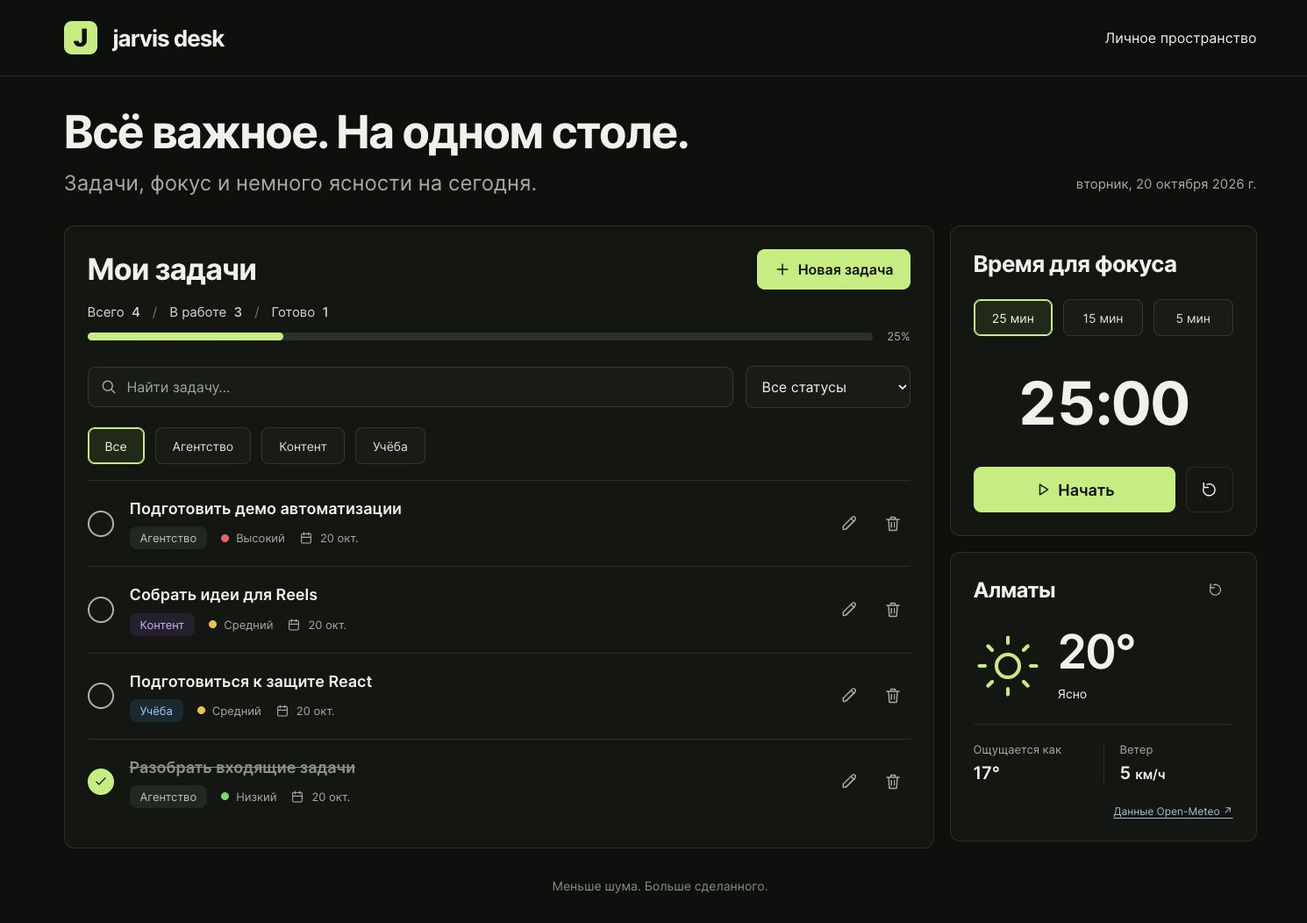
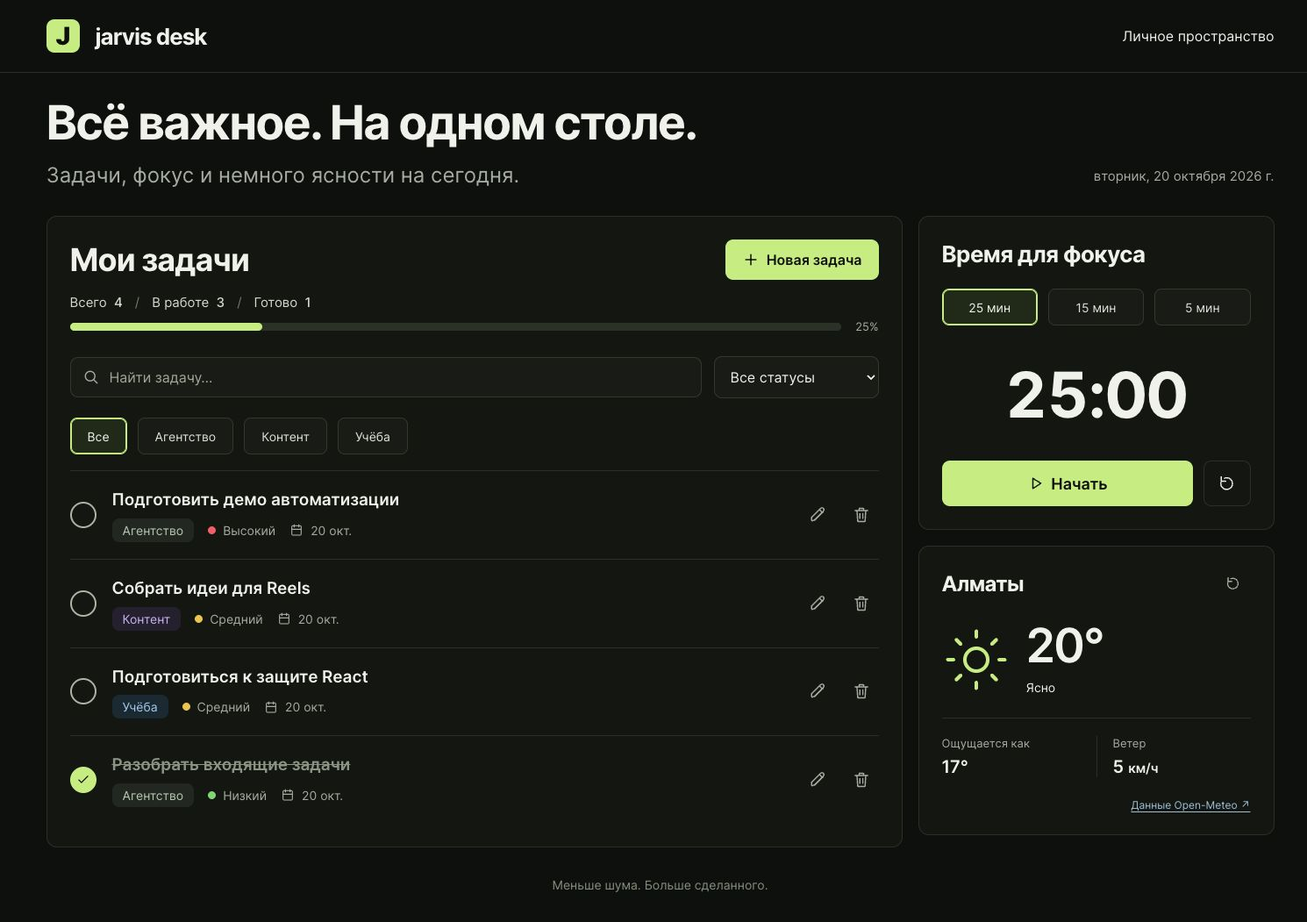
docs: add course mapping Effects assignment defense and deployment verification

diff --git a/README.md b/README.md
@@ -1,0 +1,137 @@
+# Jarvis Desk
+
+Личное пространство для задач агентства, контента и учёбы: список дел, прогресс, таймер фокуса и текущая погода в Алматы.
+
+Индивидуальный учебный проект на React для мидтерма и задания **Task 4. Effects**.
+
+**Приложение:** [tamerlanta.github.io/jarvis-desk](https://tamerlanta.github.io/jarvis-desk/)
+
+**Репозиторий:** [TamerlanTA/jarvis-desk](https://github.com/TamerlanTA/jarvis-desk)
+
+![Jarvis Desk — основной экран](docs/desktop.png)
+
+## Возможности
+
+- Создание, редактирование, удаление с подтверждением и отметка выполнения задач.
+- Направления «Агентство», «Контент», «Учёба»; приоритет и срок каждой задачи.
+- Проверка названия (3–120 символов), реальной календарной даты, направления и приоритета.
+- Поиск с задержкой 300 мс, фильтры по направлению и статусу; фильтры работают вместе.
+- Общая статистика и процент выполненных задач, вычисляемые из списка.
+- Сохранение задач между перезагрузками через `localStorage`.
+- Четыре демонстрационные задачи при первом запуске. После удаления всех задач пустой список сохраняется.
+- Таймер на 5, 15 или 25 минут: старт, пауза, продолжение, сброс и сообщение о завершении.
+- Погода в Алматы: температура, ощущаемая температура, описание и ветер; загрузка, ошибка, повтор запроса и ручное обновление.
+- Адаптивная раскладка, видимый фокус клавиатуры, подписи полей и кнопок; диалоги закрываются через Escape.
+
+## Стек и запуск
+
+React, Vite, JavaScript, plain CSS. Для проверок — ESLint, Vitest и React Testing Library. Для публикации — `gh-pages`.
+
+Проверено с Node.js **26.0.0** и npm **11.12.1**.
+
+```bash
+git clone https://github.com/TamerlanTA/jarvis-desk.git
+cd jarvis-desk
+npm ci
+npm run dev
+```
+
+Открыть URL из терминала, обычно `http://localhost:5173/jarvis-desk/`.
+
+```bash
+npm test          # 12 проверок Effects и валидации
+npm run lint     # JavaScript и правила hooks
+npm run build    # production-файлы в dist/
+npm run preview  # локальный просмотр production-сборки
+```
+
+## Тема курса → где в коде
+
+| Тема | Реализация |
+| --- | --- |
+| Компоненты | `src/components/`: 10 компонентов, каждый в своём файле; `App.jsx` собирает экран |
+| Props | `TaskList` получает задачи и обработчики от `App`; `TaskItem` получает одну задачу; `TaskSummary` получает весь список |
+| Lifting state up | `src/App.jsx`: владеет задачами через `useStoredTasks`, передаёт данные в список и сводку; обработчики изменения возвращаются через props |
+| Несколько `useState` | `App.jsx`: поиск, направление, статус, открытая форма и выбранные задачи; `TaskForm.jsx`: поля и ошибки; таймер и погода имеют собственный state |
+| События | `TaskItem.jsx`: `onChange`, `onClick`; `TaskForm.jsx`: `onSubmit`, `preventDefault`; `TaskFilters.jsx`: изменение поиска и фильтров |
+| Controlled forms | `TaskForm.jsx`: `value={values...}` и `onChange={changeField}`; `TaskFilters.jsx`: управляемые input/select |
+| Валидация | `src/utils/tasks.js`: `validateTask`, `isValidDate`; `TaskForm.jsx`: ошибки у полей, запрет сохранения невалидных данных |
+| Списки и `key` | `TaskList.jsx`: `tasks.map` с `key={task.id}`; `TaskFilters.jsx`, `TaskForm.jsx`, `FocusTimer.jsx`: ключи для вариантов |
+| Условный рендеринг | `TaskList.jsx`: пустой список / отсутствие результатов; `WeatherWidget.jsx`: loading / error / data; `App.jsx`: форма и подтверждение удаления |
+| Effect №1: чтение `localStorage` | `src/hooks/useStoredTasks.js`, первый `useEffect`, зависимости `[]`: загрузка, проверка структуры и версии данных |
+| Effect №2: запись `localStorage` | `src/hooks/useStoredTasks.js`, второй `useEffect`, `[tasks, canSave]`: сохранение только после успешного чтения |
+| Effect №3: `fetch` API | `src/components/WeatherWidget.jsx`, `[requestNumber]`: `fetch`, `response.ok`, loading/error, проверка ответа, таймаут, cleanup через `AbortController` |
+| Effect №4: таймер | `src/components/FocusTimer.jsx`, `[endsAt]`: интервал обновления остатка времени, cleanup через `clearInterval` |
+| Effect №5: debounce | `src/hooks/useDebouncedValue.js`, `[value, delay]`: отложенное обновление поискового запроса, cleanup через `clearTimeout` |
+| Адаптивные стили | `src/styles.css`: CSS Grid, Flexbox, media queries, `:focus-visible`, `prefers-reduced-motion` |
+
+Подробный разбор отдельного задания: [Task 4. Effects](docs/EFFECTS.md).
+
+## Архитектура и данные
+
+```text
+src/
+  App.jsx                       # общий state, обработчики, фильтрация, композиция
+  main.jsx                      # createRoot и StrictMode
+  components/
+    Header.jsx
+    TaskSummary.jsx
+    TaskFilters.jsx
+    TaskList.jsx
+    TaskItem.jsx
+    TaskForm.jsx
+    DeleteDialog.jsx
+    FocusTimer.jsx
+    WeatherWidget.jsx
+    Icon.jsx
+  hooks/
+    useStoredTasks.js
+    useDebouncedValue.js
+  utils/
+    tasks.js                    # варианты полей, даты, валидация, демо-данные
+    weather.js                  # URL API, WMO-коды, проверка ответа
+  styles.css
+tests/
+  effects.test.jsx
+```
+
+Поток данных: `App → TaskList → TaskItem`; событие из `TaskItem → обработчик в App → новый tasks → обновление списка и TaskSummary`. Локальный черновик формы попадает в общий список только после успешной валидации.
+
+Сводка и отфильтрованный список вычисляются при рендере. Для них не нужен отдельный state или `useEffect`: это производные данные.
+
+`localStorage` хранит `{ version: 1, tasks: [...] }` под ключом `jarvis-desk.tasks.v1`. У задачи есть стабильный `id`, `title`, `category`, `priority`, `dueDate` и `completed`. Новые ID создаются через `crypto.randomUUID()`.
+
+Данные относятся к этому браузеру и origin: localhost и GitHub Pages имеют разные хранилища. Фильтры и таймер сбрасываются при обновлении страницы. При повреждении хранилища приложение показывает предупреждение и не перезаписывает исходные данные; при отказе записи сообщает об этом пользователю.
+
+## Task 4. Effects: как проверить
+
+1. Добавить задачу, обновить страницу — задача останется. Выполнить её — изменятся сводка и сохранённые данные.
+2. Нажать обновление погоды — появится loading, затем актуальный ответ Open-Meteo. Для проверки ошибки включить Offline в DevTools → Network и повторить обновление; вернуть сеть и нажать «Повторить».
+3. Выбрать 5 минут, запустить и поставить таймер на паузу — время перестанет уменьшаться; продолжить и сбросить.
+4. Ввести запрос поиска — список обновится через 300 мс после последнего ввода.
+
+Автотесты дополнительно проверяют завершение сессии без реального ожидания, очистку интервала после unmount, отмену debounce, чтение перед записью в StrictMode, сохранение пустого списка, повреждённое хранилище, отказ записи, HTTP-ошибку с восстановлением, некорректный ответ API и таймаут запроса.
+
+## GitHub Pages
+
+В `vite.config.js` задан `base: '/jarvis-desk/'`. Приложение одноэкранное, роутер не требуется.
+
+```bash
+npm run deploy
+```
+
+`predeploy` автоматически выполняет `npm run build`, затем `gh-pages -d dist --nojekyll` публикует `dist/` в ветку `gh-pages`. GitHub → Settings → Pages: **Deploy from a branch → gh-pages → /(root)**. Нужны права записи в репозиторий и настроенная GitHub-аутентификация.
+
+Изменения исходников коммитятся и отправляются в `main` отдельно. Один `git push` не заменяет `npm run deploy`. При переименовании репозитория нужно обновить `base` и ссылки.
+
+## API и источники
+
+Погода: [Open-Meteo Weather Forecast API](https://open-meteo.com/en/docs), координаты Алматы, часовой пояс `Asia/Almaty`, ветер в км/ч. API доступен для некоммерческого использования без ключа; ссылка на источник находится в виджете. Для погоды требуется сеть. Задачи и таймер после загрузки страницы работают независимо от ответа API.
+
+Справка: [React — useEffect](https://react.dev/reference/react/useEffect), [Vite — GitHub Pages](https://vite.dev/guide/static-deploy.html#github-pages).
+
+## Защита и проверка
+
+- [План и текст защиты на 3–4 минуты](docs/DEFENSE.md).
+- [Проверки и сравнение интерфейса с макетом](docs/QA.md).
+- [Мобильный скриншот](docs/mobile.png).

diff --git a/docs/QA.md b/docs/QA.md
@@ -1,0 +1,61 @@
+# Проверка Jarvis Desk — 20 октября 2026
+
+## Публикация
+
+- Публичный репозиторий: [TamerlanTA/jarvis-desk](https://github.com/TamerlanTA/jarvis-desk), основная ветка `main`.
+- Работающее приложение: [GitHub Pages](https://tamerlanta.github.io/jarvis-desk/).
+- Pages собирается из `gh-pages`, корень `/`, HTTPS включён; проверен статус GitHub Pages `built` без ошибки.
+- Публикация выполнена через `npm run deploy`; `predeploy` запускает production build.
+
+## Автоматические проверки
+
+- `npm run build` — успешно после каждого этапа реализации.
+- `npm run lint` — без ошибок и предупреждений.
+- `npm test` — 12 тестов, все проходят.
+- `npm audit` — 0 известных уязвимостей на момент установки зафиксированных зависимостей.
+- Проверены данные хранилища до первого сохранения в StrictMode; пустой список; повреждённый JSON; отказ записи; пауза, продолжение и завершение таймера; cleanup интервала и debounce; загрузка погоды, HTTP-ошибка, повтор, некорректные данные, таймаут; валидация даты и названия.
+
+## Браузерная проверка
+
+Использован встроенный браузер Codex (IAB), без Playwright-fallback. Проверены localhost и опубликованный URL. В production не обнаружены сообщения `warn` или `error` в консоли.
+
+На публичном сайте выполнены:
+
+1. Отправка пустого названия → сообщение валидации; корректное создание задачи.
+2. Обновление страницы → добавленная задача сохранилась.
+3. Редактирование названия и даты; нативный ввод даты с клавиатуры → новая дата отображается в списке.
+4. Очистка даты с клавиатуры → ошибка, форма не сохраняется; отмена оставляет старую задачу.
+5. Отметка выполнения → обновление счётчиков и процента.
+6. Совместные направление + статус + поиск → нужная задача; неизвестный запрос → пустой результат; сброс возвращает весь список.
+7. Отмена удаления сохраняет задачу; подтверждение удаляет её. Временная тестовая задача удалена после проверки.
+8. Таймер: 5 минут → старт → наблюдаемый отсчёт → пауза → сброс; переключение на 15 и 25 минут.
+9. Обновление погоды → loading → реальный ответ API, единицы км/ч и источник отображаются.
+10. Мобильная форма открывается, помещается в экран и закрывается; Escape проверен на desktop.
+
+HTTP-ошибки, таймауты, повреждение хранилища и полное завершение таймера проверены детерминированными автотестами; production API во время проверки отвечал успешно.
+
+## Адаптивность
+
+Проверены ширины 320, 390, 768, 1280 и 1505 CSS px. Горизонтального переполнения нет. На небольших экранах поиск и select располагаются друг под другом, метаданные переносятся, панели таймера и погоды переходят под задачи. Мобильный диалог не имеет внутреннего горизонтального переполнения.
+
+- [Desktop](desktop.png): скриншот production-версии, получен через `tab.screenshot({ fullPage: true })` в IAB при viewport 1505 × 1045. Полоса прокрутки может уменьшать ширину самого PNG на 15 px.
+- [Mobile](mobile.png): production-версия при viewport 390 × 844.
+
+## Сверка с визуальным макетом
+
+[Исходный концепт](design-concept.png), 1505 × 1045, и актуальные desktop/mobile PNG открыты через `view_image` в одном проходе проверки. Реализация сверена с выбранным визуальным направлением: тёмный рабочий стол, зелёный акцент, список слева и две утилиты справа. Существенных незакрытых расхождений по структуре и читаемости нет.
+
+| Область | Сравнение и исправление |
+| --- | --- |
+| Компоновка | Сохранены header → вводная часть → задачи слева / фокус и погода справа → footer. Уточнены максимальная ширина 1400px и пропорция колонок около 70:30. |
+| Типографика | Системный sans-serif, крупный заголовок, явная иерархия разделов и табличные цифры таймера. После сравнения уточнены размеры заголовка, названий задач, метаданных и таймера. Метрики системного шрифта могут отличаться от растрового концепта. |
+| Палитра | Зафиксированы charcoal canvas, чуть более светлые панели, приглушённые границы и lime CTA/выбранные фильтры. Растровая текстура макета заменена ровным CSS-фоном. |
+| Отступы и панели | Тонкие разделители строк, 12px углы панелей, 18px межколоночный зазор; уточнены вертикальные отступы вводной части. |
+| Кнопки и иконки | Сохранены назначение, расположение и outline-стиль иконок; используются единообразные SVG, hover и keyboard-focus. У погоды добавлена функционально необходимая кнопка обновления. |
+| Текст первого экрана | Название, заголовок, подзаголовок, CTA, фильтры, названия демо-задач и footer соответствуют спецификации. Нет новых рекламных секций или декоративных подписей. |
+| Реальные данные | Преднамеренные отличия: текущая дата, свежая погода, даты демо-задач, корректные 25% ширины прогресса; ветер в км/ч без неиспользуемого направления. |
+| Мобильный вид | Та же иерархия и палитра; колонки складываются, элементы остаются читаемыми и доступными. |
+
+## Границы реализации
+
+Задачи сохраняются локально для конкретного браузера и origin. Таймер и фильтры после обновления страницы сбрасываются. Погода зависит от сети и доступности Open-Meteo; ошибки имеют отдельный UI с повтором запроса. Backend, авторизация и роутер для данного объёма не нужны.

diff --git a/docs/DEFENSE.md b/docs/DEFENSE.md
@@ -1,0 +1,55 @@
+# Защита Jarvis Desk — 3–4 минуты
+
+Перед началом открыть [приложение](https://tamerlanta.github.io/jarvis-desk/) и исходники `App.jsx`, `useStoredTasks.js`, `WeatherWidget.jsx`, `FocusTimer.jsx`. Проверить сеть для демонстрации погоды.
+
+## 0:00–0:25 — Что это
+
+«Я сделал Jarvis Desk — личную панель, которая помогает держать в одном месте задачи по агентству, контенту и учёбе. Здесь есть список дел, прогресс выполнения, таймер фокуса и погода в Алматы. Это статическое React-приложение на Vite и JavaScript, опубликованное на GitHub Pages».
+
+## 0:25–1:10 — Демо №1: задача и сохранение
+
+Нажать «Новая задача». Отправить пустую форму: показать сообщение валидации. Ввести «Подготовить презентацию», выбрать «Учёба» и сохранить. Отметить выполнение: процент и счётчики изменятся. Обновить страницу: задача останется.
+
+«Форма управляемая: значения находятся в state и меняются через onChange. onSubmit отменяет стандартную отправку, проверяет данные и передаёт их родителю через onSave. Задачи хранятся на уровне App через пользовательский hook. Список и сводка получают одни и те же данные через props — это lifting state up».
+
+## 1:10–1:40 — Демо №2: поиск и фильтры
+
+Выбрать «Учёба» и «Готово». Ввести часть названия в поиск. Затем несуществующее слово, показать пустой результат и нажать «Сбросить фильтры».
+
+«У поиска, направления и статуса независимые useState. Фильтры применяются вместе. Список строится через map, ключ — постоянный ID задачи. Поиск использует debounce: результат меняется после 300 мс без ввода. Предыдущий timeout очищается в cleanup».
+
+## 1:40–2:10 — Демо №3: фокус и погода
+
+Выбрать 5 минут, нажать «Начать», показать уменьшение времени, поставить на паузу и сбросить. Нажать обновление погоды: кратко показать загрузку и данные.
+
+«Таймер хранит время окончания и вычисляет остаток относительно системных часов. Это помогает при замедлении фоновой вкладки. Когда таймер останавливается или компонент удаляется, cleanup вызывает clearInterval. Погода загружается из публичного Open-Meteo API; у неё есть состояния загрузки, результата и ошибки с повтором».
+
+## 2:10–3:10 — Где state и effects в коде
+
+Открыть соответствующие файлы и показать:
+
+1. **`App.jsx`:** state фильтров и диалогов; задачи получены из `useStoredTasks`; обработчики передаются вниз через props. Сводка и видимый список вычисляются при рендере.
+2. **`useStoredTasks.js`:** первый effect с `[]` читает данные. Второй с `[tasks, canSave]` сохраняет их. Флаг блокирует запись до окончания чтения, чтобы не затереть старые задачи.
+3. **`WeatherWidget.jsx`:** effect зависит от `requestNumber`. Проверяет HTTP-ответ и JSON, обрабатывает ошибки. Cleanup отменяет fetch через AbortController и очищает таймаут.
+4. **`FocusTimer.jsx`:** effect зависит от `endsAt`, создаёт интервал и возвращает функцию очистки.
+
+«Эффекты нужны там, где React синхронизируется с браузерным хранилищем, сетью или временем. Валидация и изменение задач относятся к событиям, поэтому выполняются в обработчиках».
+
+## 3:10–3:35 — Проверка и публикация
+
+«В проекте 10 отдельных компонентов, JavaScript и обычный адаптивный CSS. Проходят npm run build, npm run lint и 12 тестов. Тесты проверяют сохранность данных, очистку таймеров и восстановление после ошибки API. В Vite задан base для имени репозитория; npm run deploy сначала собирает приложение, затем публикует dist в ветку gh-pages».
+
+## Короткие ответы на вероятные вопросы
+
+| Вопрос | Ответ |
+| --- | --- |
+| Почему state задач поднят? | Он нужен одновременно списку, форме через обработчики и сводке. Общий владелец исключает разные копии одного списка. |
+| Почему нельзя менять массив через push? | Создаём новый массив через spread, map или filter, чтобы React получил новое значение и сохранился предсказуемый поток данных. |
+| Зачем key? | Помогает React сопоставлять элементы при добавлении и удалении. ID стабилен, индекс может измениться. |
+| Зачем cleanup? | Чтобы старые интервалы, таймауты и запросы не продолжали работать после изменения зависимостей или удаления компонента. |
+| Что означает []? | В обычном жизненном цикле effect запускается после первого рендера. В StrictMode при разработке есть дополнительная проверка setup/cleanup. |
+| Почему эффект погоды зависит от requestNumber? | Нажатие обновления меняет счётчик и повторно запускает синхронизацию с API. |
+| Что будет без сети? | Виджет погоды покажет ошибку и кнопку повторной загрузки. Уже открытые задачи и таймер продолжают работать. |
+| Почему таймер сбросился после перезагрузки? | Его state хранится в памяти компонента. В localStorage сохраняются только задачи. |
+| Почему нет роутера? | У приложения один экран. Для него маршрутизация не нужна. |
+| Есть ли AI? | Здесь реализована персональная панель задач в стиле Джарвиса. Для текущих функций достаточно React и открытого API погоды. |

diff --git a/docs/EFFECTS.md b/docs/EFFECTS.md
@@ -1,0 +1,57 @@
+# Task 4. Effects — Jarvis Desk
+
+В проекте пять вызовов `useEffect`. Каждый синхронизирует React с внешним состоянием или временем. Логика выполняется в работающем приложении.
+
+| № | Файл | Зависимости | Внешняя система | Cleanup |
+| --- | --- | --- | --- | --- |
+| 1 | `src/hooks/useStoredTasks.js` — первый effect | `[]` | чтение `localStorage` при старте | не нужен: синхронная операция |
+| 2 | `src/hooks/useStoredTasks.js` — второй effect | `[tasks, canSave]` | запись изменённого списка в `localStorage` | не нужен: синхронная операция |
+| 3 | `src/components/WeatherWidget.jsx` | `[requestNumber]` | HTTP-запрос Open-Meteo и 12-секундный таймаут | `controller.abort()`, `clearTimeout`, флаг `isActive = false` |
+| 4 | `src/components/FocusTimer.jsx` | `[endsAt]` | системные часы и интервал | `clearInterval(intervalId)` |
+| 5 | `src/hooks/useDebouncedValue.js` | `[value, delay]` | таймаут debounce поиска | `clearTimeout(timeoutId)` |
+
+## 1–2. Загрузка и сохранение
+
+На первом рендере `tasks` пуст, а `canSave` равен `false`. Первый effect читает и проверяет данные. Если ключ отсутствует, он создаёт демонстрационный список. Уже сохранённый `[]` считается корректными данными и остаётся пустым.
+
+После успешного чтения устанавливается `canSave = true`. Второй effect сохраняет список при изменении `tasks`. Этот флаг нужен, чтобы начальное пустое состояние не затёрло ранее сохранённые задачи. React объединяет обновления состояния из первого эффекта перед следующим рендером.
+
+Если JSON или структура повреждены, исходная запись остаётся нетронутой, а UI сообщает о работе в памяти вкладки. Ошибка записи также отображается пользователю. В хранилище есть версия схемы и проверка уникальности ID.
+
+## 3. Погода: loading → data / error
+
+При монтировании и нажатии обновления запускается effect. Кнопка изменяет `requestNumber`, который находится в массиве зависимостей.
+
+Алгоритм: установить loading, очистить ошибку, вызвать `fetch` с `AbortController.signal`, проверить `response.ok`, прочитать JSON, проверить числовые поля и записать ответ в state. Ошибки сети, HTTP и структуры ответа переходят в error. В `finally` снимается loading и удаляется таймаут.
+
+После 12 секунд ожидания запрос отменяется и показывается сообщение о таймауте. Cleanup при повторном запуске или размонтировании отменяет запрос и таймаут. `isActive` не позволяет старому асинхронному ответу обновить состояние после cleanup. Кнопка «Повторить» запускает новый запрос.
+
+## 4. Таймер и cleanup
+
+Обработчик старта вычисляет абсолютное время окончания: `Date.now() + secondsLeft * 1000`. Effect зависит от `endsAt`. Когда `endsAt === null`, интервал не создаётся.
+
+Каждые 200 мс вычисляется остаток от системного времени. Это уменьшает погрешность, возникающую при замедлении таймеров в фоновой вкладке. На нуле значение ограничивается `0`, таймер останавливается и выводит сообщение о завершении.
+
+Пауза сохраняет остаток и устанавливает `endsAt = null`. React выполняет cleanup предыдущего эффекта и удаляет интервал. Сброс, смена длительности и unmount также очищают его. Длительность не сохраняется между перезагрузками страницы.
+
+## 5. Debounce
+
+`search` обновляется при каждом вводе, поэтому input остаётся управляемым и отзывчивым. Hook создаёт таймаут, который через 300 мс обновляет `debouncedValue`; по этому значению фильтруется список.
+
+При следующем символе React сначала вызывает cleanup предыдущего запуска. Старый таймаут удаляется, а новый начинает ожидание заново. При unmount последний таймаут тоже удаляется.
+
+## Почему не всё находится в эффектах
+
+Валидация и создание задачи запускаются обработчиком `onSubmit`. Статистика и фильтрация — обычные вычисления по `tasks`. Им не нужна синхронизация с внешней системой, поэтому `useEffect` там не используется.
+
+## StrictMode
+
+В `src/main.jsx` включён `StrictMode`. В режиме разработки React выполняет дополнительный цикл setup → cleanup → setup, чтобы выявлять ошибки очистки. Первый запрос погоды может быть отменён, после чего запускается новый. Это ожидаемое поведение разработки. Тесты проверяют отсутствие потери сохранённых задач и лишних интервалов.
+
+## Проверка
+
+```bash
+npm test
+```
+
+Тесты: `tests/effects.test.jsx`. Для таймеров используются виртуальные часы, для API — контролируемые ответы. Они проверяют поведение UI, сохранность данных и cleanup, не завися от реальной сети или пятиминутного ожидания.
